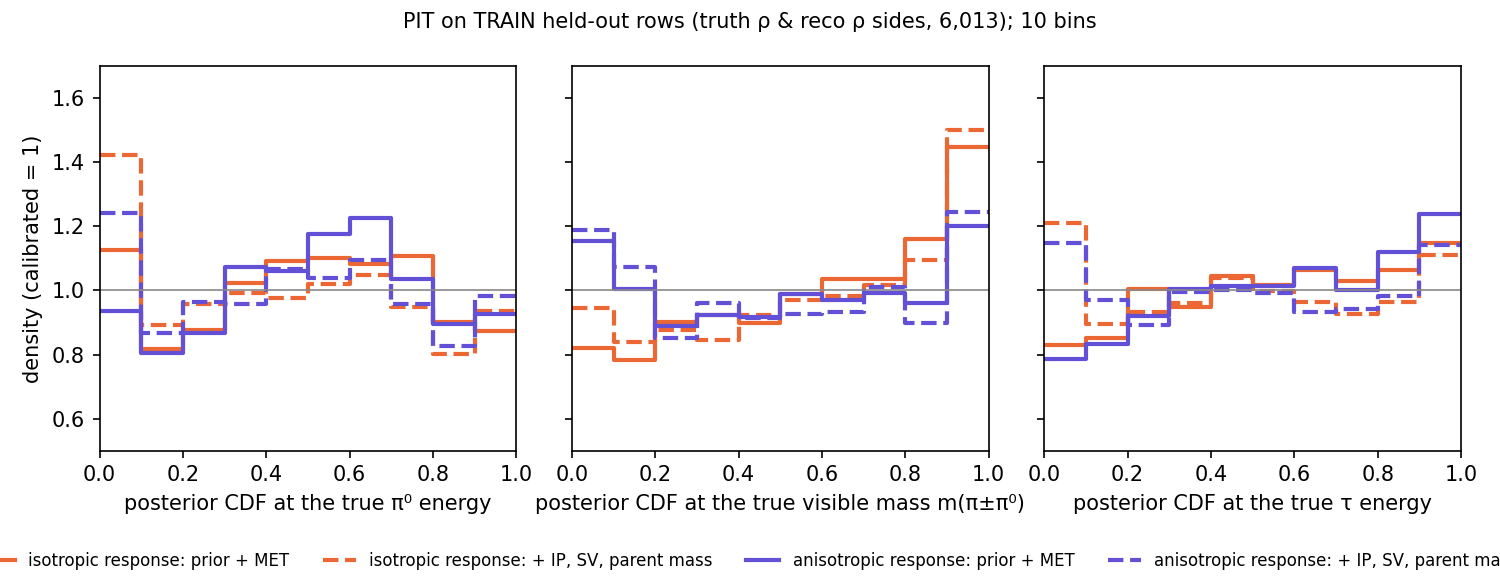
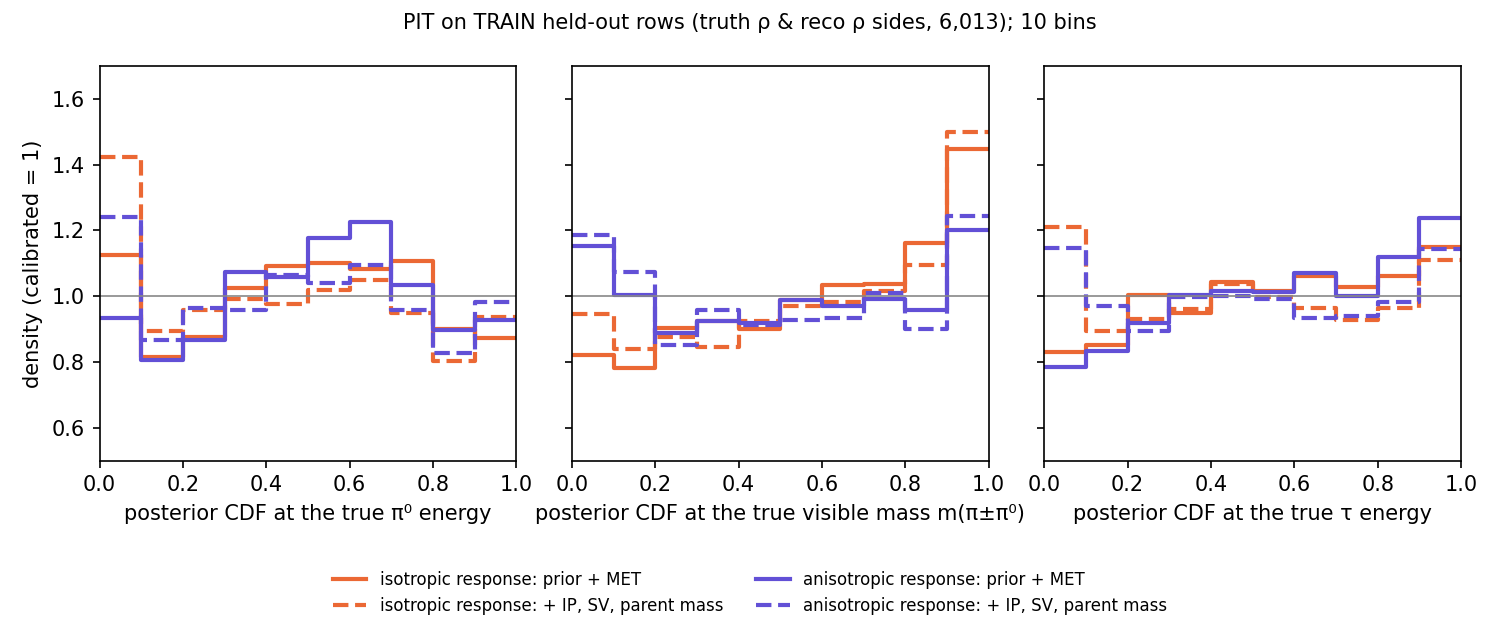
rho_pi0_marginal: final README, docstring notation (review)

diff --git a/analysis/rho_pi0_marginal/posterior_marg.py b/analysis/rho_pi0_marginal/posterior_marg.py
@@ -4,7 +4,7 @@ On every reco-rho side (reco_h_mode 1, available) the true pi0 momentum p2 is a 
 charged pion p1 the spin-flat joint density of (p2, x, phi) -- x = E_vis/E_tau, phi the tau azimuth around the
 visible axis, visible V = p1 + p2 -- is, per d^3p2 dx dphi,
 
-    rho_E(E_tau) E_V / (P pV x^2)      tau-momentum prior f(P) d^3P ~ rho_E(E) dE dOmega / (4 pi P E) ... on the shell
+    rho_E(E_tau) E_V / (P pV x^2)      tau-momentum prior f(P) d^3P = rho_E(E) dE dOmega / 4 pi, nu on its shell
   x |B_rho(s)|^2 T(p1, p2, nu)          spin-summed tau -> pi pi0 nu rate, T = 2(q.N)q0 - q^2 N0 (tau rest frame),
                                         B the Kuehn-Santamaria rho+rho' form factor of the generator
   x 1 / E2                              pi0 phase space d^3p2 / 2E2

diff --git a/analysis/rho_pi0_marginal/README.md b/analysis/rho_pi0_marginal/README.md
@@ -13,11 +13,14 @@ treatment of the reco pi0 error (TRAIN response as likelihood, rho line shape an
 |---|---|
 | `p0_train_truth.py` | truth pi+- / pi0 / nu of every TRAIN event with a truth-rho side, re-read from ROOT |
 | `response.py` | stage-1 TRAIN pi0 response (u = log E_reco/E_true, l = log angle) per raw mode and true-E bin, proposal table, tau-energy prior; holds out event_number % 5 == 0 |
-| `response_cond.py` | stage-2 response conditioned on the hypothesis pi+-/pi0 separation (angle x E) and the reco PFO-mass class |
+| `response_cond.py` | stage-2 response conditioned on the hypothesis pi+-/pi0 separation (angle x E) and the reco PFO-mass class; stage-3 table of the azimuth of the reco pi0 around the true one (pull toward the track) |
+| `attrib.py` | AUC from the transverse (nn+rr) and longitudinal (kk) correlation terms separately |
 | `posterior_marg.py` | the sampler: pi0 hypotheses, derived Jacobian, then IP/SV/MET/(mass) as in `../atlas_classical_posterior/posterior.py`; per-pair polarimeter with the pair's own pi0; PIT outputs; `--split train` for the TRAIN PIT subset |
 | `eval_marg.py` | PIT summaries; AUC by truth pair, paired bootstrap, cross-fit combination with the learner, rho-side h quality |
 | `make_figures.py` | figures in `results/` |
 
 Main numbers (IP+SV+MET+parent mass, invE prior): rho x rho 0.575 -> 0.597 (+0.022 [0.015, 0.029]), overall
 0.590 -> 0.604; truth-pi0 oracle 0.636 / 0.626; learner 0.621 / 0.629; combination with the learner +0.0005.
-Stage 2 +0.002 (n.s.).  Parent-mass width 3 -> 1 GeV: no gain.  See the Vault run note for the claim boundary.
+Two posterior-sampling seeds: gain +0.023 [0.016, 0.031] (rho x rho), +0.015 overall.  Stage 2 +0.001, stage 3
+(anisotropic direction response, fixes the TRAIN m_vis PIT tilt) +0.000.  Parent-mass width 3 -> 1 GeV: no gain.
+The recovered part is mostly longitudinal (kk); the remaining gap to the learner is half transverse, half longitudinal.  See the Vault run note for the claim boundary.
